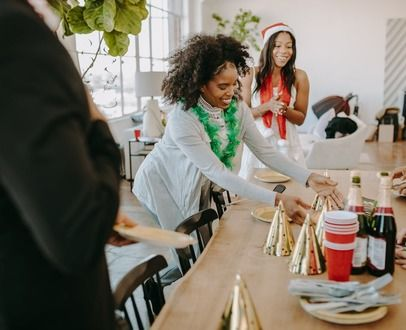
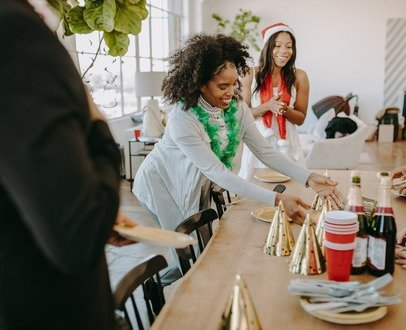
team images on mobile

diff --git a/index.html b/index.html
@@ -137,7 +137,7 @@
               </div>
               <div class="team__col">
                 <div class="team__item">
-                  <img class="team__image" src="images/work/4.webp" alt="Special event setup" width="307" height="500" loading="lazy" decoding="async">
+                  <img class="team__image" src="images/work/4.webp" alt="Special event setup" width="406" height="660" loading="lazy" decoding="async">
                   <div class="team__info">
                     <h2 class="team__title">View Photos</h2>
                   </div>

diff --git a/css/style.css b/css/style.css
@@ -517,8 +517,8 @@ body {
 
 .team__item {
   position: relative;
-
   background: linear-gradient(to bottom, #7db77b, #fce38a);
+  overflow: hidden;
 }
 
 .team__item:hover .team__image {
@@ -533,8 +533,8 @@ body {
   display: block;
   transition: opacity 0.2s linear;
   max-width: 100%;
+  width: 100%;
   height: auto;
-  width: 100vw;
 }
 
 .team__info {
@@ -1137,7 +1137,6 @@ body {
   color: #fff;
 }
 
-.section-team,
 .section-about,
 .section__reviews,
 .section__contact,

diff --git a/css/media.css b/css/media.css
@@ -121,6 +121,10 @@
    .team__col {
     width: 100%;
    }
+   .team__image {
+    max-height: 330px;
+    object-fit: cover;
+   }
   .content__title-work {
    font-size: 14px;
    }
